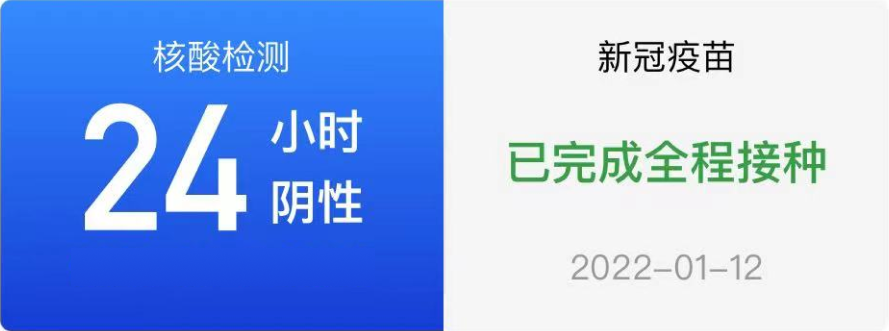
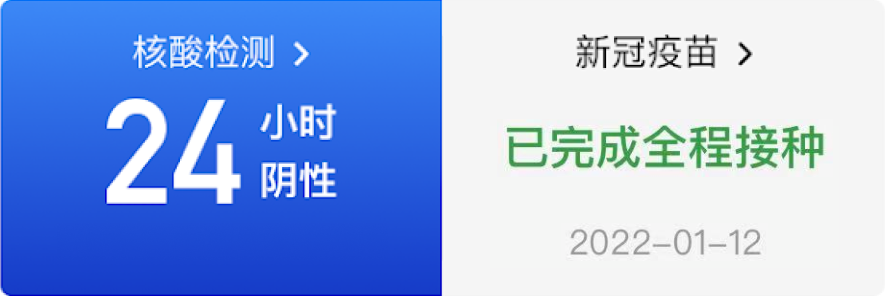
update: change 48 hours validation to 24 hours

diff --git a/components/CSMMainView/index.js b/components/CSMMainView/index.js
@@ -2,9 +2,8 @@ import React from 'react';
 import {StyleSheet, View, Text, TextInput, ImageBackground} from 'react-native';
 import {timeFormatter, QRCODE_TEMPLATE} from '../../utils/public';
 import QRCode from 'react-native-qrcode-svg';
-import {a as qrcodeData} from '../../utils/test';
 import {Context} from '../../App';
-import {Trumpet} from '../../assets/svg/index';
+// import {Trumpet} from '../../assets/svg/index';
 
 const nowTime = Date.now();
 
@@ -30,7 +29,7 @@ const CSMMainView = () => {
       <View style={styles.ticketContainer}>
         {/* 地点 姓名 时间 */}
         <View style={styles.placeContainer}>
-          <Text style={styles.placeText}>{info.placeName}</Text>
+          <Text numberOfLines={1} style={styles.placeText}>{info.placeName}</Text>
           <View style={styles.nameAndTime}>
             <Text style={styles.grayText}>{info.name}</Text>
             <Text style={{marginLeft: 4, ...styles.grayText}}>
@@ -39,7 +38,15 @@ const CSMMainView = () => {
           </View>
         </View>
         {/* 二维码 */}
-        <View style={styles.qrcodeContainer}>
+        {/* <View style={styles.qrcodeContainer}> */}
+        <ImageBackground
+          source={require('../../assets/img/qrcode_border.png')}
+          style={{
+            aspectRatio: 509 / 509,
+            height: 164,
+            ...styles.qrcodeContainer,
+          }}
+          resizeMode="cover">
           <QRCode
             value={JSON.stringify({
               ...QRCODE_TEMPLATE,
@@ -48,15 +55,17 @@ const CSMMainView = () => {
               phone: info.phone,
               t: Math.floor(nowTime / 1000),
             })}
-            size={160}
+            size={150}
+            logo={require('../../assets/img/lion_logo.png')}
             color="#459A4A"
           />
-        </View>
+        </ImageBackground>
+        {/* </View> */}
         {/* 核酸 疫苗 */}
         <View style={styles.testAndVaccineContainer}>
           <ImageBackground
             source={require('../../assets/img/test_and_vaccine_background.png')}
-            style={{aspectRatio: 889 / 331, height: 112}}
+            style={{aspectRatio: 887 / 297, height: 100}}
             resizeMode="cover">
             <Text style={styles.testTime}>
               {timeFormatter(nowTime - 16.2547 * 3600000, 'yyyy-MM-dd HH:mm')}
@@ -65,13 +74,13 @@ const CSMMainView = () => {
         </View>
       </View>
       {/* 播报 */}
-      <View style={styles.broadcast}>
+      {/* <View style={styles.broadcast}>
         <Trumpet />
         <View style={{marginTop: 8}}>
           <Text style={styles.broadcastText}>播</Text>
           <Text style={styles.broadcastText}>报</Text>
         </View>
-      </View>
+      </View> */}
     </ImageBackground>
   );
 };
@@ -83,8 +92,8 @@ const styles = StyleSheet.create({
   },
   placeId: {
     position: 'absolute',
-    top: 163,
-    left: 125,
+    top: 143,
+    left: 120,
     color: 'rgba(256, 256, 256, 0.8)',
     fontSize: 12,
   },
@@ -94,7 +103,7 @@ const styles = StyleSheet.create({
     justifyContent: 'flex-start',
     alignItems: 'center',
     position: 'relative',
-    top: 192,
+    top: 172,
     marginHorizontal: 25,
   },
   placeContainer: {
@@ -102,11 +111,12 @@ const styles = StyleSheet.create({
     flexDirection: 'column',
     justifyContent: 'flex-start',
     alignItems: 'center',
-    paddingVertical: 18,
+    paddingVertical: 14,
   },
   placeText: {
     fontSize: 22,
     fontWeight: '600',
+    paddingHorizontal: 24,
   },
   nameAndTime: {
     display: 'flex',
@@ -118,40 +128,45 @@ const styles = StyleSheet.create({
   grayText: {
     color: '#999999',
   },
-  qrcodeContainer: {},
+  qrcodeContainer: {
+    display: 'flex',
+    flexDirection: 'row',
+    justifyContent: 'center',
+    alignItems: 'center',
+  },
   testAndVaccineContainer: {
     display: 'flex',
     flexDirection: 'row',
-    justifyContent: 'space-between',
+    justifyContent: 'center',
     alignItems: 'center',
-    marginTop: 36,
+    marginTop: 24,
     marginBottom: 14,
     height: 108,
     width: 295,
-    borderRadius: 4,
+    // borderRadius: 8,
     overflow: 'hidden',
   },
-  broadcast: {
-    display: 'flex',
-    flexDirection: 'column',
-    justifyContent: 'center',
-    alignItems: 'center',
-    position: 'absolute',
-    paddingVertical: 12,
-    paddingHorizontal: 10,
-    // borderRadius: 4,
-    borderTopRightRadius: 2,
-    borderBottomRightRadius: 2,
-    top: 320,
-    left: 25,
-    backgroundColor: '#edf3fe',
-  },
-  broadcastText: {
-    marginTop: 2,
-    color: '#4E86F7',
-    fontSize: 14,
-    fontWeight: '600',
-  },
+  // broadcast: {
+  //   display: 'flex',
+  //   flexDirection: 'column',
+  //   justifyContent: 'center',
+  //   alignItems: 'center',
+  //   position: 'absolute',
+  //   paddingVertical: 12,
+  //   paddingHorizontal: 10,
+  //   // borderRadius: 4,
+  //   borderTopRightRadius: 2,
+  //   borderBottomRightRadius: 2,
+  //   top: 320,
+  //   left: 25,
+  //   backgroundColor: '#edf3fe',
+  // },
+  // broadcastText: {
+  //   marginTop: 2,
+  //   color: '#4E86F7',
+  //   fontSize: 14,
+  //   fontWeight: '600',
+  // },
   sectionContent: {
     // padding: 12,
   },
@@ -160,8 +175,8 @@ const styles = StyleSheet.create({
     width: '50%',
     color: '#ffffff',
     textAlign: 'center',
-    fontSize: 12,
-    bottom: 16,
+    fontSize: 11,
+    bottom: 11,
   },
 });
 

diff --git a/components/YKMJumbotron/index.js b/components/YKMJumbotron/index.js
@@ -172,12 +172,12 @@ const YKMJumbotron = () => {
           <View style={styles.leftRightContainer}>
             <View style={styles.sectionContent}>
               <Image
-                source={require('../../assets/img/48_hours_negtive.png')}
+                source={require('../../assets/img/24_hours_negtive.png')}
                 style={{aspectRatio: 156 / 111, height: 116}}
                 resizeMode="cover"
               />
               <Text style={styles.testTime}>
-                {timeFormatter(nowTime - 36.192 * 3600000, 'yyyy-MM-dd HH:mm')}
+                {timeFormatter(nowTime - 16.192 * 3600000, 'yyyy-MM-dd HH:mm')}
               </Text>
               {/* <TestResult /> */}
             </View>
@@ -308,9 +308,9 @@ const styles = StyleSheet.create({
     // backgroundColor: '#8361d4',
     color: '#ffffff',
     textAlign: 'center',
-    fontSize: 12,
+    fontSize: 11,
     left: 3,
-    bottom: 12,
+    bottom: 14,
   },
   bottomContainer: {
     display: 'flex',

diff --git a/pages/CSMScreen/index.js b/pages/CSMScreen/index.js
@@ -2,22 +2,25 @@ import React from 'react';
 import {StyleSheet, ScrollView, StatusBar, View} from 'react-native';
 import WindowButtons from '../../components/WindowButtons';
 import CSMMainView from '../../components/CSMMainView';
+import LinearGradient from 'react-native-linear-gradient';
 
 const CSMScreen = ({navigation}) => {
   return (
-    <View style={styles.mainContainer}>
+    <LinearGradient
+      colors={['#4E87F7', '#3D6EF6']}
+      style={styles.mainContainer}>
       <StatusBar barStyle="light-content" />
       <WindowButtons showHome onClose={() => navigation.navigate('Index')} />
       <ScrollView contentInsetAdjustmentBehavior="automatic">
         <CSMMainView />
       </ScrollView>
-    </View>
+    </LinearGradient>
   );
 };
 
 const styles = StyleSheet.create({
   mainContainer: {
-    backgroundColor: '#4C8BFF',
+    // backgroundColor: '#4E87F7',
     height: '100%',
   },
 });

diff --git a/utils/public.js b/utils/public.js
@@ -71,7 +71,7 @@ export const INITIAL_INFO = {
   phone: '189******64',
   city: '深圳',
   placeName: '米奇妙妙屋♂',
-  placeId: '12***678',
+  placeId: '12**678',
 };
 
 //
